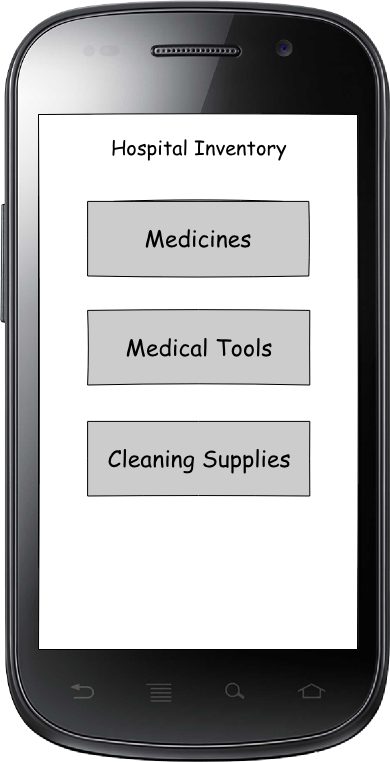
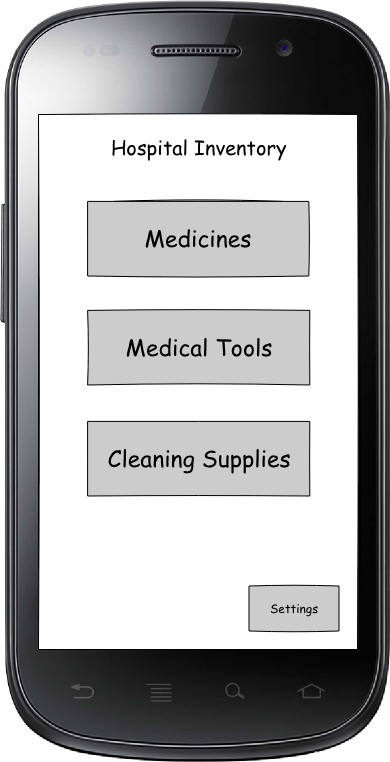
Add files via upload
update

Changed region(s): [[0.6154, 0.7546, 0.8923, 0.8451]]

diff --git a/index.html b/index.html
@@ -1,2 +1,2 @@
 <html xmlns="http://www.w3.org/1999/xhtml" xmlns:p="http://www.evolus.vn/Namespace/Pencil" xmlns:html="http://www.w3.org/1999/xhtml"><head><meta http-equiv="Content-Type" content="text/html; charset=UTF-8" />
-<title>InventoryApp</title><link rel="stylesheet" href="Resources/SampleStyle.css" /></head><body><h1 id="documentTitle">InventoryApp</h1><p id="documentMetadata">Exported at: Fri May 17 2019 21:35:52 GMT-0500 (CDT)</p><div class="Page" id="home_page_page"><h2>Home Page</h2><div class="ImageContainer"><img src="pages/home_page.png" width="390" height="762" usemap="#map_home_page" /></div><map name="map_home_page"><area shape="rect" coords="87.60000610351562,201.39999389648438,309.600006103516,277.399993896484" href="#medicines_page_1_page" title="Go to page 'Medicines Page 1'" /></map></div><div class="Page" id="medicines_page_1_page"><h2>Medicines Page 1</h2><div class="ImageContainer"><img src="pages/medicines_page_1.png" width="390" height="762" usemap="#map_medicines_page_1" /></div><map name="map_medicines_page_1"><area shape="rect" coords="57,583,128,633" href="#home_page_page" title="Go to page 'Home Page'" /><area shape="rect" coords="87.60000610351562,201.39999389648438,309.600006103516,277.399993896484" href="#medicines_page_2_page" title="Go to page 'Medicines Page 2'" /></map></div><div class="Page" id="medicines_page_2_page"><h2>Medicines Page 2</h2><div class="ImageContainer"><img src="pages/medicines_page_2.png" width="390" height="762" usemap="#map_medicines_page_2" /></div><map name="map_medicines_page_2"><area shape="rect" coords="57,582,128,632" href="#medicines_page_1_page" title="Go to page 'Medicines Page 1'" /></map></div></body></html>
+<title>InventoryApp</title><link rel="stylesheet" href="Resources/SampleStyle.css" /></head><body><h1 id="documentTitle">InventoryApp</h1><p id="documentMetadata">Exported at: Sat May 18 2019 17:57:38 GMT-0500 (CDT)</p><div class="Page" id="home_page_page"><h2>Home Page</h2><div class="ImageContainer"><img src="pages/home_page.png" width="390" height="762" usemap="#map_home_page" /></div><map name="map_home_page"><area shape="rect" coords="249,585,339,632" href="#settings_page" title="Go to page 'Settings'" /><area shape="rect" coords="87.60000610351562,201.39999389648438,309.600006103516,277.399993896484" href="#medicine_categories_page" title="Go to page 'Medicine Categories'" /></map></div><div class="Page" id="medicine_categories_page"><h2>Medicine Categories</h2><div class="ImageContainer"><img src="pages/medicine_categories.png" width="390" height="762" usemap="#map_medicine_categories" /></div><map name="map_medicine_categories"><area shape="rect" coords="57,583,128,633" href="#home_page_page" title="Go to page 'Home Page'" /><area shape="rect" coords="87.60000610351562,201.39999389648438,309.600006103516,277.399993896484" href="#medicines_page" title="Go to page 'Medicines'" /></map></div><div class="Page" id="medicines_page"><h2>Medicines</h2><div class="ImageContainer"><img src="pages/medicines.png" width="390" height="762" usemap="#map_medicines" /></div><map name="map_medicines"><area shape="rect" coords="82.5,238.5,314.5,306.5" href="#specific_medicine_page" title="Go to page 'Specific Medicine'" /><area shape="rect" coords="57,582,128,632" href="#medicine_categories_page" title="Go to page 'Medicine Categories'" /></map></div><div class="Page" id="specific_medicine_page"><h2>Specific Medicine</h2><div class="ImageContainer"><img src="pages/specific_medicine.png" width="390" height="762" usemap="#map_specific_medicine" /></div><map name="map_specific_medicine"><area shape="rect" coords="81.5,238,311.5,305.5" href="#medicine_detail_page" title="Go to page 'Medicine Detail'" /><area shape="rect" coords="57,582,128,632" href="#medicines_page" title="Go to page 'Medicines'" /></map></div><div class="Page" id="medicine_detail_page"><h2>Medicine Detail</h2><div class="ImageContainer"><img src="pages/medicine_detail.png" width="390" height="762" usemap="#map_medicine_detail" /></div><map name="map_medicine_detail"><area shape="rect" coords="163,582,234,632" href="#edit_quantity_page" title="Go to page 'Edit Quantity'" /><area shape="rect" coords="57,582,128,632" href="#specific_medicine_page" title="Go to page 'Specific Medicine'" /></map></div><div class="Page" id="edit_quantity_page"><h2>Edit Quantity</h2><div class="ImageContainer"><img src="pages/edit_quantity.png" width="390" height="762" usemap="#map_edit_quantity" /></div><map name="map_edit_quantity"><area shape="rect" coords="215,316,305,341" href="#medicine_detail_page" title="Go to page 'Medicine Detail'" /><area shape="rect" coords="93,316,183,341" href="#medicine_detail_page" title="Go to page 'Medicine Detail'" /><area shape="rect" coords="57,582,128,632" href="#specific_medicine_page" title="Go to page 'Specific Medicine'" /></map></div><div class="Page" id="settings_page"><h2>Settings</h2><div class="ImageContainer"><img src="pages/settings.png" width="390" height="762" usemap="#map_settings" /></div><map name="map_settings"><area shape="rect" coords="58,581,129,631" href="#home_page_page" title="Go to page 'Home Page'" /></map></div></body></html>
